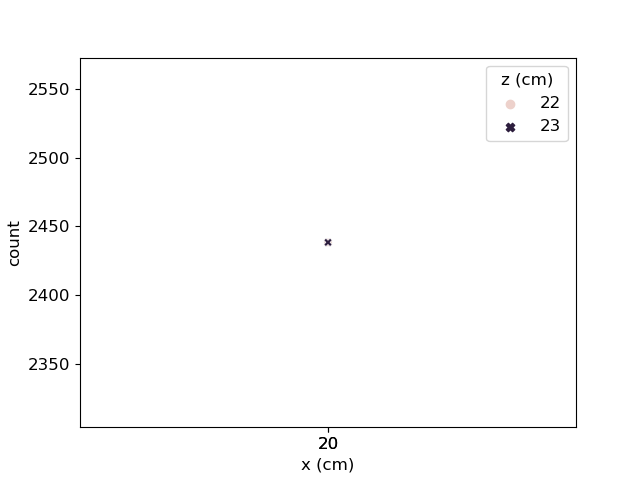
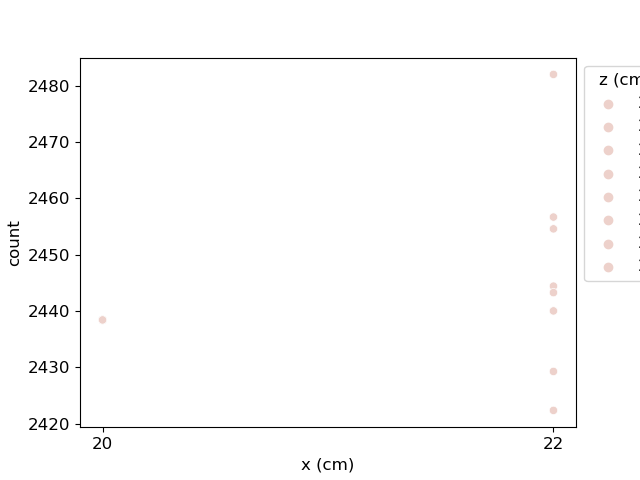
auto collect data added

diff --git a/main.py b/main.py
@@ -27,7 +27,7 @@ from kivy.clock import Clock
 from tkinter import filedialog, messagebox
 from pathlib import Path
 
-from graphs import zcount
+from graphs import zcount, xcount, count_over_time
 
 class MainWidget(BoxLayout):
     filename = StringProperty('teste_v2')
@@ -74,7 +74,6 @@ class MainWidget(BoxLayout):
                             self.angle,
                             self.temperature]
                 writer.writerow(self.data)
-            file.close()
 
         root = tk.Tk()
         root.withdraw()
@@ -165,7 +164,17 @@ class MainWidget(BoxLayout):
         if self.ids.stch_z_plot.active:
             zcount(self.filename)
             self.plot_img = 'imgs/z-contagem.png'
-            self.ids.img_plt.reload()
+
+        if self.ids.stch_x_plot.active:
+            xcount(self.filename)
+            self.plot_img = 'imgs/x-contagem.png'
+
+        if self.ids.stch_cont_time.active:
+            count_over_time(self.filename, float(self.posx), float(self.posz))
+            self.plot_img = 'imgs/count_over_time.png'
+        
+        self.ids.img_plot.reload()
+
 
     def activate_auto_collect(self):
         if self.ids.tg_auto_collect.state == 'normal':
@@ -179,7 +188,6 @@ class MainWidget(BoxLayout):
             Clock.schedule_interval(self.update, float(self.time))
 
     def update(self, dt):
-        print(self.index)
         self.on_material_val(self.ids.material)
         self.on_posx_val(self.ids.posx)
         self.on_posz_val(self.ids.posz)
@@ -204,7 +212,6 @@ class MainWidget(BoxLayout):
                         self.angle,
                         self.temperature]
             writer.writerow(self.data)
-            file.close()
         
         self.index += 1
         self.show_plots()

diff --git a/graphs.py b/graphs.py
@@ -35,11 +35,11 @@ def zcount(filename):
         hue = 'x',
         style = 'x'
     )
+
     plt.xticks(plot_data['z'])
     plt.xlabel('z (cm)')
     plt.legend(title = 'x (cm)', bbox_to_anchor=(1,1))
     plt.savefig('imgs/z-contagem.png')
-    plt.show()
 
 def xcount(filename):
     plot_data = __get_data(filename)
@@ -51,11 +51,11 @@ def xcount(filename):
         hue = 'z',
         style = 'z'
     )
+
     plt.xticks(plot_data['x'])
     plt.xlabel('x (cm)')
     plt.legend(title = 'z (cm)', bbox_to_anchor=(1,1))
     plt.savefig('imgs/x-contagem.png')
-    plt.show()
 
 def count_over_time(filename, x_pos, z_pos):
     data = pd.read_csv(f'resultados/{filename}.csv')
@@ -66,6 +66,7 @@ def count_over_time(filename, x_pos, z_pos):
         x = 'tempo(s)',
         y = 'contagem'
     )
-    plt.savefig('imgs/count_over_time.png')
+
     plt.title(f'x = {x_pos} cm ---- z = {z_pos} cm')
-    plt.show()
+    plt.xticks(plot_data['tempo(s)'])
+    plt.savefig('imgs/count_over_time.png')
